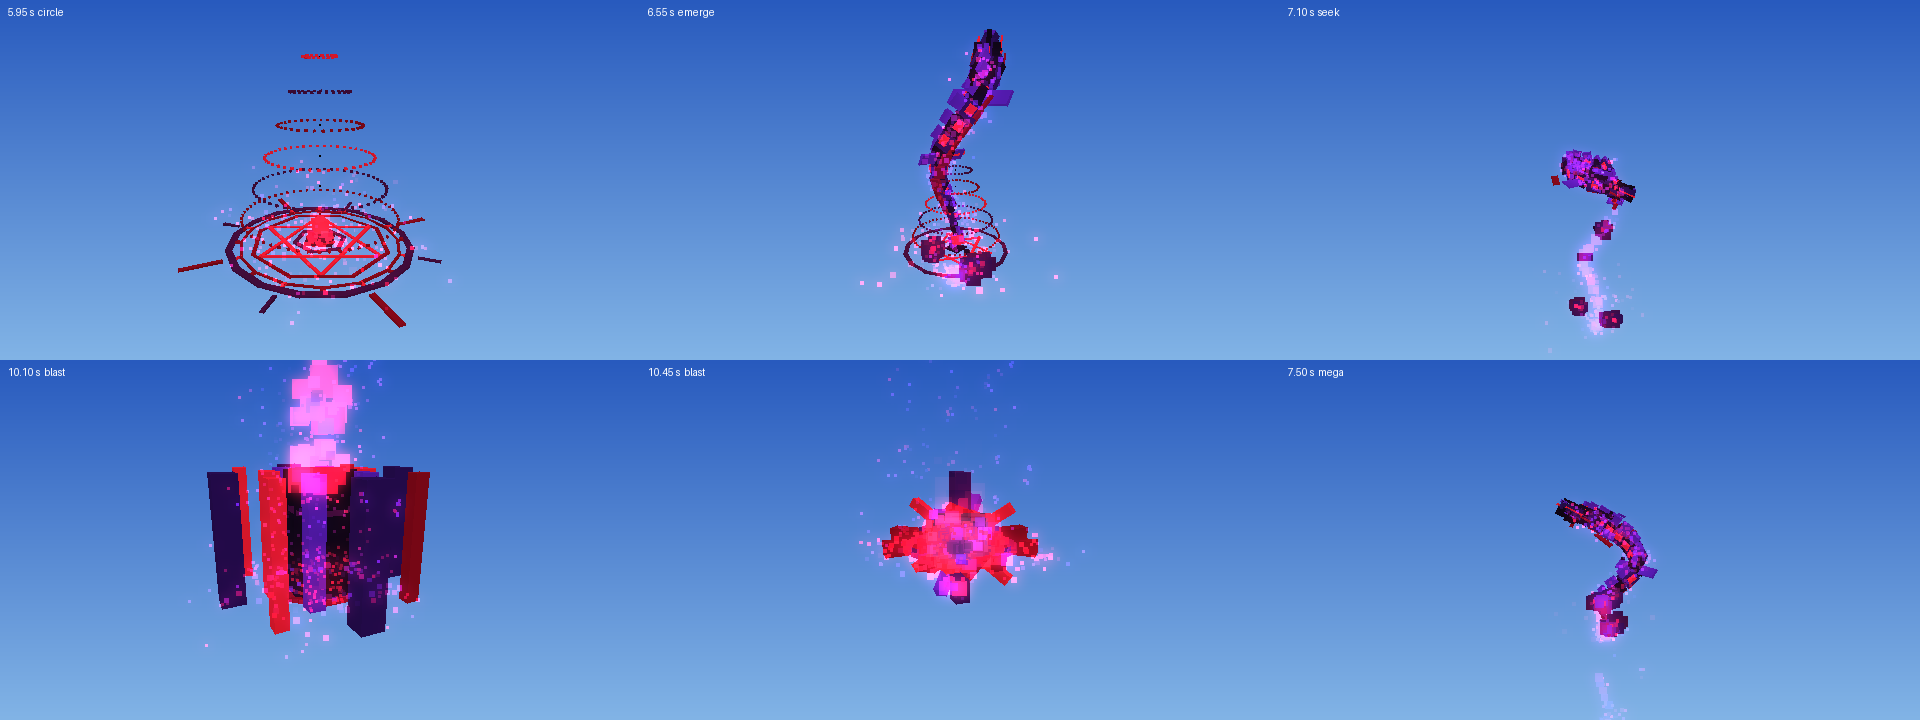
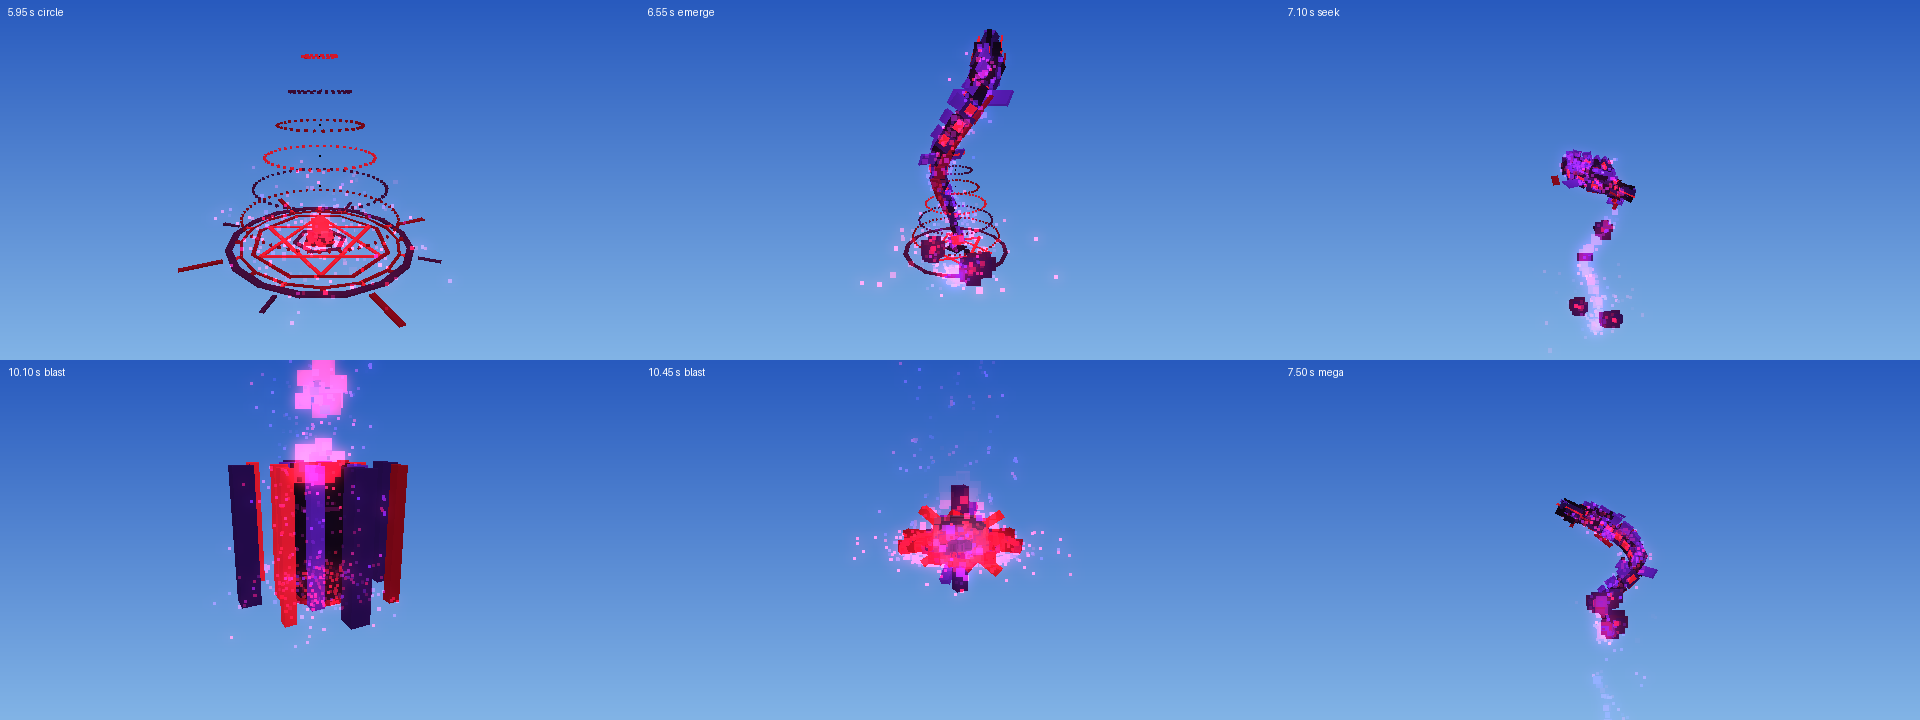
Explosion and beam scale fully with the dragon (three times the old size); nuke follows the merged dragon

Changed region(s): [[0.0938, 0.4889, 0.25, 0.8861], [0.4375, 0.6111, 0.5625, 0.8556], [0.8125, 0.7028, 0.875, 0.8861]]

diff --git a/dragon_pulse/world_code.js b/dragon_pulse/world_code.js
@@ -13,14 +13,14 @@ var DP_CFG = {
   boom: 1,
   beam: 0.5,
   hold: 0.8,
-  radius: 24,
+  radius: 48,
   knockback: 24,
   hurtCaster: false,
   merge: true,
   mergeDist: 4,
   megaScale: 1.6,
   megaRise: 20,
-  nukeRadius: 60,
+  nukeRadius: 96,
   nukeDamage: 400,
   nukeKnockback: 30,
   rotate: true,
@@ -917,9 +917,9 @@ var DP_PHASE = [
 
   function (c) {
     var goal = dpGoal(c)
-    var b = DP_CFG.boom * Math.max(1, DP_CFG.size / 1.5)
+    var b = DP_CFG.boom * DP_CFG.size
     if (c.t === 0) dpDrop(c, "")
-    var st = dpFinale(c, [goal[0], goal[1] - 1, goal[2]], 2 * b, 72 * DP_CFG.boom, DP_CFG.radius, 1, b)
+    var st = dpFinale(c, [goal[0], goal[1] - 1, goal[2]], 2 * b, 48 * b, DP_CFG.radius, 1, b)
     if (st === 1) {
       dpSound("blast", goal)
       dpHurt(c, goal, DP_CFG.radius, DP_CFG.damage, DP_CFG.knockback)
@@ -929,7 +929,7 @@ var DP_PHASE = [
 
   function (c) {
     if (c.t === 0) dpDrop(c, "blast_")
-    var b = 1.2 * DP_CFG.boom * Math.max(1, DP_CFG.size / 1.5)
+    var b = 1.2 * DP_CFG.boom * DP_CFG.size
     if (c.t % 8 === 0 && c.t < 17) dpShape("puff", [c.goal[0], c.goal[1] + 1.5 * b + c.t * 0.1, c.goal[2]], dpBall(c.t ? 14 : 26), (2.2 - c.t * 0.08) * b, 1.2, "", "", 0.8)
     if (c.t === 0) dpShape("puff", [c.goal[0], c.goal[1] + 0.5, c.goal[2]], dpRing(20), 2 * b, 4)
     if (c.t < 26 && c.t % 2 === 0) dpFx("smoke", dpAt(c.goal, c.B, 0, 0, 1.5 * b), 7, 2.5 * b)
@@ -958,11 +958,11 @@ var DP_PHASE = [
   },
 
   function (c) {
-    var b = DP_CFG.boom * Math.max(1, DP_CFG.size / 2)
+    var b = (DP_CFG.boom * DP_CFG.size * DP_CFG.megaScale) / 2.2
     if (c.t === 0) {
       dpDrop(c, "")
       c.ground = dpAdd(c.at, [0, -1, 0], dpFree(c.at, [0, -1, 0], 60) - 1)
-      c.tall = c.at[1] - c.ground[1] + 50
+      c.tall = c.at[1] - c.ground[1] + 24 * b
       c.goal = c.ground
     }
     var st = dpFinale(c, c.ground, 4.5 * b, c.tall, DP_CFG.nukeRadius, 1.2, 3 * b)
@@ -974,7 +974,7 @@ var DP_PHASE = [
   },
 
   function (c) {
-    var b = DP_CFG.boom * Math.max(1, DP_CFG.size / 2)
+    var b = (DP_CFG.boom * DP_CFG.size * DP_CFG.megaScale) / 2.2
     if (c.t === 0) dpDrop(c, "blast_")
     if (c.t % 8 === 0 && c.t < 33) dpSound("rumble", c.ground, 1 - c.t * 0.01)
     var wide = (4 + 16 * (1 - Math.pow(1 - Math.min(1, (c.t + 1) / 26), 2))) * b

diff --git a/dragon_pulse/tools/render.py b/dragon_pulse/tools/render.py
@@ -127,7 +127,7 @@ strip.resize((W * 2, H * 3 // 2)).save(os.path.join(out, 'timeline.png'))
 # Six moments from close by. The last two are two dragons that met.
 tick_of = lambda frames, ph, i: [f['t'] for f in frames if f['ph'] == ph][i]
 shots = [(one, one_live, 0, -1, 34), (one, one_live, 1, 11, 60), (one, one_live, 2, 8, 80),
-         (one, one_live, 5, 29, 60), (one, one_live, 5, 36, 70), (two, two_live, 7, 14, 110)]
+         (one, one_live, 5, 29, 110), (one, one_live, 5, 36, 130), (two, two_live, 7, 14, 110)]
 sheet = Image.new('RGB', (W * 3, H * 2))
 for i, (frames, live, ph, at, back) in enumerate(shots):
     t = tick_of(frames, ph, at)

diff --git a/README.md b/README.md
@@ -133,9 +133,9 @@ The meshes sit over your own skin; they do not hide it.
 
 | File | Goes into | Characters | Limit |
 |---|---|---|---|
-| `world_code.js` | World Code | 44,585 | 512,000 |
-| `goodra.js` | World Code, below `world_code.js` | 10,215 | 512,000 together: 54,801 |
-| `skin.js` | World Code | 6,032 | 512,000, all three together: 60,834 |
+| `world_code.js` | World Code | 44,561 | 512,000 |
+| `goodra.js` | World Code, below `world_code.js` | 10,215 | 512,000 together: 54,777 |
+| `skin.js` | World Code | 6,032 | 512,000, all three together: 60,810 |
 | `code_block.js` | Code Block | 18 | 32,000 |
 | `studio/particles_only.code_block.js` | Code Block | 6,430 | 32,000 |
 
@@ -151,8 +151,10 @@ instead of 2.5 and its rings turn 2.4 times slower. The times in the table below
 are from the old size: add 3.35 s to each after the circle (emerge 6.0, seek
 6.7, dive 7.3, coil 8.1, beam 8.7, smoke 11.15, end about 12.9 s). Heights and
 widths in the table are also from the old size, except where a row says
-otherwise: the beam is twice as thick, the explosion twice as wide (blast
-radius 24) and the nuke 1.5 times as big (radius 60).
+otherwise: the beam and the explosion are three times the old size, like the dragon
+(beam 144 blocks tall and about 25 across, burst about 61 blocks across, blast
+radius 48), and the nuke follows the merged dragon (beam up to 43 blocks thick,
+burst about 134 blocks across, radius 96).
 
 | Step | What happens | Built from | Seconds |
 |---|---|---|---|
